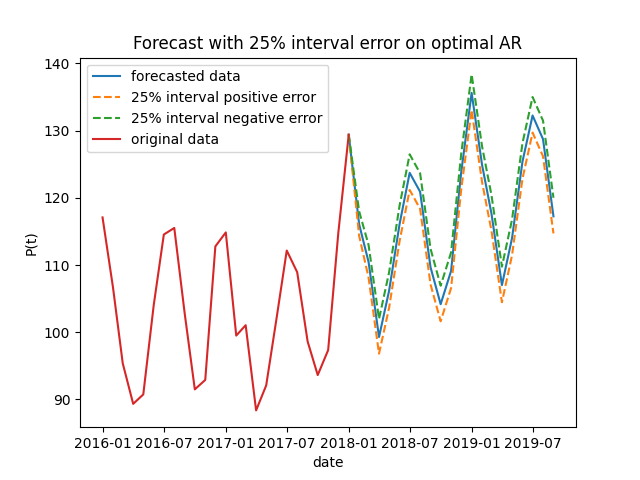
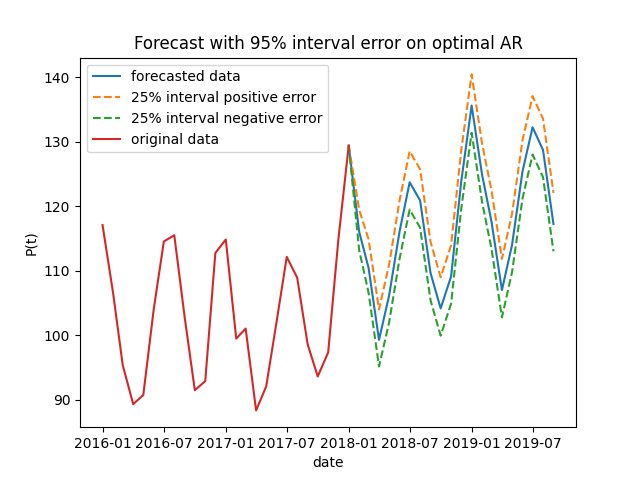
Небольшие исправления функции квантилей.

diff --git a/src/main.py b/src/main.py
@@ -115,7 +115,7 @@ plt.title('Gauss pdf on optimal AR')
 plt.savefig(f'{image_directory}/pdf.png')
 plt.close()
 
-forecasted, error = optimal_ar.forecast(r, 20)
+forecasted, error = optimal_ar.forecast(r, 20, interval=95E-2)
 dates = ['2018-02-01', '2018-03-01', '2018-04-01', '2018-05-01', '2018-06-01', '2018-07-01', '2018-08-01',
          '2018-09-01', '2018-10-01', '2018-11-01', '2018-12-01', '2019-01-01', '2019-02-01', '2019-03-01',
          '2019-04-01', '2019-05-01', '2019-06-01', '2019-07-01', '2019-08-01', '2019-09-01']
@@ -141,6 +141,6 @@ plt.plot(times[len(times)-25:],data[len(data)-25:], label='original data')
 plt.xlabel('date')
 plt.ylabel('P(t)')
 plt.legend()
-plt.title('Forecast with 25% interval error on optimal AR')
+plt.title('Forecast with 95% interval error on optimal AR')
 plt.savefig(f'{image_directory}/forecast.png')
 plt.close()

diff --git a/src/AR.py b/src/AR.py
@@ -60,5 +60,5 @@ class AR:
             var_error[t] = var
             forecast_data[t] = y
         error = np.sqrt(var_error)
-        error *= self.dist.inv_cdf(interval / 2)
+        error *= self.dist.inv_cdf(interval / 2 + 0.5)
         return [forecast_data, error]

diff --git a/README.md b/README.md
@@ -1,7 +1,7 @@
 Реализация авторегрессии AR ряда с выбором значения лага по информационным критериям по функции правдоподобия на основе распределений Гаусса, Стьюдента остаточных значений
-В примере на основе набора данных производства электроэнергии по дням строилась модель авторегрессии логарифмической производной ряда.![original and log_dif series.png](src%2Fimages%2Foriginal%20and%20log_dif%20series.png)\ 
+В примере на основе набора данных производства электроэнергии по дням строилась модель авторегрессии логарифмической производной ряда.![original and log_dif series.png](src%2Fimages%2Foriginal%20and%20log_dif%20series.png)
 Необходимые лаги модели искались из коэффициентов автокорелляции ряда.![PACF.png](src%2Fimages%2FPACF.png)\
 Сравнивались модели с разным набором последовательных набранных лагов. Для сравнения моделей представлена логарифмическая функция праводоподобия и информационные критерии.![likelihood.png](src%2Fimages%2Flikelihood.png) ![criterions.png](src%2Fimages%2Fcriterions.png)\
 Для наилучшей модели по всем критериям построена распределение ошибки и аппроксимации распределением Гаусса.\
 ![pdf.png](src%2Fimages%2Fpdf.png)\
-В качестве примера использования рассматривалось прогнозирование 20 значений по модели с оценкой погрешности в рамках 25% интервала. ![forecast.png](src%2Fimages%2Fforecast.png)
+В качестве примера использования рассматривалось прогнозирование 20 значений по модели с оценкой погрешности в рамках 95% интервала. ![forecast.png](src%2Fimages%2Fforecast.png)
